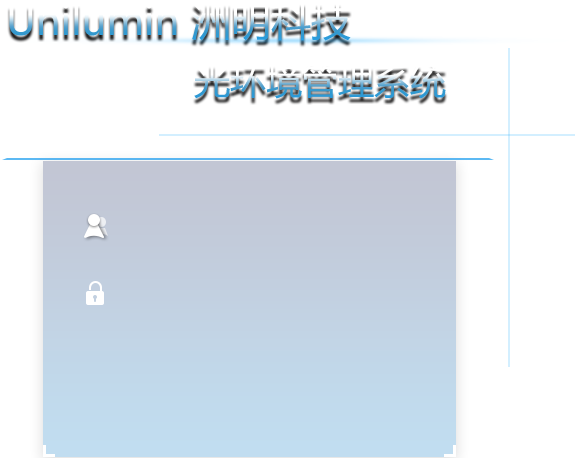
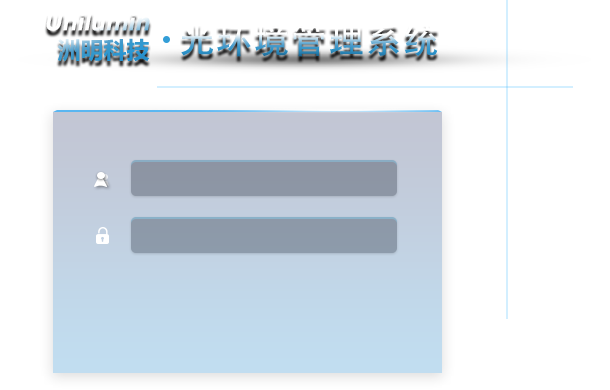
commit LE project

diff --git a/projects/LE/src/views/dashboard/dash-aside.vue b/projects/LE/src/views/dashboard/dash-aside.vue
@@ -4,40 +4,30 @@
       <input type="text" placeholder="请输入内容">
       <button></button>
     </div>
+    <ul class="header-title">
+      <li class="name">灯杆名称</li>
+      <li class="num">编号</li>
+      <li class="status">状态</li>
+    </ul>
     <el-menu
       default-active="2"
       class="el-menu-dashboard"
       @open="handleOpen"
       @close="handleClose"
+      :uniqueOpened="true"
       text-color="#fff">
-      <el-submenu index="1">
+      <el-submenu
+        v-for="(item, index) in list"
+        :key="index"
+        :index="'' + (index + 1)">
         <template slot="title">
-          <span>福永总部路灯杆组</span>
+          <span>{{ item.address }}</span>
         </template>
         <el-menu-item-group>
-          <el-menu-item index="1-1">擎天灯柱</el-menu-item>
-          <el-menu-item index="1-2">竖琴灯柱</el-menu-item>
-          <el-menu-item index="1-3">斜塔灯柱</el-menu-item>
-        </el-menu-item-group>
-      </el-submenu>
-      <el-submenu index="2">
-        <template slot="title">
-          <span>分组一</span>
-        </template>
-        <el-menu-item-group>
-          <el-menu-item index="2-1">选项1</el-menu-item>
-          <el-menu-item index="2-2">选项2</el-menu-item>
-          <el-menu-item index="2-3">选项3</el-menu-item>
-        </el-menu-item-group>
-      </el-submenu>
-      <el-submenu index="3">
-        <template slot="title">
-          <span>分组二</span>
-        </template>
-        <el-menu-item-group>
-          <el-menu-item index="3-1">选项1</el-menu-item>
-          <el-menu-item index="3-2">选项2</el-menu-item>
-          <el-menu-item index="3-3">选项3</el-menu-item>
+          <el-menu-item
+            v-for="(nodeItem, nodeIndex) in item.nodeList"
+            :key="nodeIndex"
+            :index="(index + 1) + '-' + (nodeIndex + 1)">{{ nodeItem.address }}</el-menu-item>
         </el-menu-item-group>
       </el-submenu>
     </el-menu>
@@ -76,36 +66,70 @@
 
 <style rel="stylesheet/scss" lang="scss">
   $bg: #022e4b;
-  $bg-submenu: linear-gradient(right, #1b72b5, #2e9feb);
-  $bg-active: linear-gradient(right, #9b3898, #3d83c7);
+  $menu-left: #2e9feb;
+  $menu-right: #1b72b5;
+  $active-left: #3d83c7;
+  $active-right: #9b3898;
 
   /* reset element-ui css */
   .el-menu-dashboard {
-    height: 89%;
+    height: 84%;
     border-right: none;
     background-color: $bg;
     overflow-y: auto;
     .el-submenu {
       margin-bottom: 3px;
-      background: $bg-submenu;
-      .el-menu-item {
-        border-left: 5px solid $bg;
+      background: -webkit-linear-gradient(right, $menu-right, $menu-left);
+      background: -moz-linear-gradient(right, $menu-right, $menu-left);
+      background: -o-linear-gradient(right, $menu-right, $menu-left);
+      background: linear-gradient(right, $menu-right, $menu-left);
+      .el-menu {
         background-color: $bg;
+      }
+      .el-menu-item {
+        height: 36px;
+        line-height: 36px;
+        margin-bottom: 3px;
+        background-color: #025485;
+        &:before{
+          content: '';
+          position: absolute;
+          z-index: 3;
+          left: 0;
+          width:0;
+          height:0;
+          border-right: 6px solid transparent;
+          border-bottom: 6px solid transparent;
+          border-left: 6px solid $bg;
+          border-top: 6px solid $bg;
+        }
       }
       .el-menu-item-group {
         background-color: $bg;
       }
-      .el-submenu__title:hover {
-        background: $bg-submenu;
+      .el-submenu__title {
+        height: 36px;
+        line-height: 36px;
+        &:hover {
+          background: -webkit-linear-gradient(right, $menu-right, $menu-left);
+          background: -moz-linear-gradient(right, $menu-right, $menu-left);
+          background: -o-linear-gradient(right, $menu-right, $menu-left);
+          background: linear-gradient(right, $menu-right, $menu-left);
+        }
       }
       .el-submenu__title i {
         color: #044972;
       }
     }
     .el-menu-item.is-active {
-      border-left: 5px solid #00b7ee;
       color: #fff;
-      background: $bg-active;
+      background: -webkit-linear-gradient(right, $active-right, $active-left);
+      background: -moz-linear-gradient(right, $active-right, $active-left);
+      background: -o-linear-gradient(right, $active-right, $active-left);
+      background: linear-gradient(right, $active-right, $active-left);
+      &:before{
+        border: none;
+      }
     }
   }
 </style>
@@ -116,8 +140,8 @@
     top: 10px;
     bottom: 10px;
     right: 0;
-    width: 19%;
-    padding: 17px 10px 17px 15px;
+    width: 20%;
+    padding: 1.6% 0.6% 1.6% 1.1%;
     background-image: url("../../assets/bg_silder.png");
     background-size: 100% 100%;
     overflow-y: hidden;
@@ -141,6 +165,54 @@
         background-image: url("../../assets/search.png");
         background-size: 100% 100%;
         cursor: pointer;
+      }
+    }
+    .header-title {
+      display: flex;
+      list-style: none;
+      width: 100%;
+      height: 36px;
+      line-height: 36px;
+      margin: 0 0 3px 0;
+      padding: 0;
+      color: #fff;
+      li {
+        margin-right: 3px;
+        text-align: center;
+        background-color: #00699c;
+        &:last-child {
+          margin-right: 0;
+        }
+        &:before {
+          content: '';
+          position: absolute;
+          z-index: 3;
+          left: 0;
+          width:0;
+          height:0;
+          border-right: 6px solid transparent;
+          border-bottom: 6px solid transparent;
+          border-left: 6px solid #022e4b;
+          border-top: 6px solid #022e4b;
+        }
+      }
+      .name{
+        width: 50%;
+        &:before {
+          left: 15px;
+        }
+      }
+      .num {
+        width: 30%;
+        &:before {
+          left: calc(53% - 6px);
+        }
+      }
+      .status {
+        width: 20%;
+        &:before {
+          left: calc(81% - 6px);
+        }
       }
     }
   }

diff --git a/projects/LE/src/views/login/index.vue b/projects/LE/src/views/login/index.vue
@@ -103,16 +103,20 @@ $light_gray:#eee;
     position: relative;
     top: 42%;
     left: 21%;
-    width: 50%;
-    height: 12%;
-    border: 1px solid rgba(255, 255, 255, 0.1);
-    background: rgba(0, 0, 0, 0.1);
-    border-radius: 5px;
+    width: 45%;
+    height: 36px;
+    margin-bottom: 20px;
     color: #454545;
   }
   .el-button {
-    width: 100%;
-    height: 100%;
+    margin-left:1.5%;
+    margin-top: 4px;
+    width: 84%;
+    height: 120%;
+  }
+  .el-form-item__error{
+    top: 33px;
+    left: 15px;
   }
 }
 
@@ -129,12 +133,26 @@ $light_gray:#eee;
   background-size: 100% 100%;
   .login-form {
     position: absolute;
-    top: 20%;
-    right: 15%;
-    width: 30%;
-    height: 49%;
+    top: 28%;
+    right: 14%;
+    width: 610px;
+    height: 390px;
     background-image: url('../../assets/login/login_form.png');
     background-size: 100% 100%;
+    @media screen and (max-width: 1600px) {
+      top: 17%;
+      right: 12%;
+    }
+    &:after{
+      content:'';
+      position: absolute;
+      top: 100%;
+      left: 6.6%;
+      width: 76.8%;
+      height: 150px;
+      background-image: url('../../assets/login/login_form_reflect.png');
+      background-size: 100% auto;
+    }
   }
   .tips {
     font-size: 14px;
@@ -154,6 +172,7 @@ $light_gray:#eee;
     font-size: 12px;
     color: #fff;
     text-align: center;
+    letter-spacing: 1.5px;
   }
 }
 </style>

diff --git a/projects/LE/config/dev.env.js b/projects/LE/config/dev.env.js
@@ -4,5 +4,5 @@ const prodEnv = require('./prod.env')
 
 module.exports = merge(prodEnv, {
   NODE_ENV: '"development"',
-  BASE_API: '"http://47.106.209.104/led-api/api"',
+  BASE_API: '"http://114.115.181.29/led-api/api"',
 })

diff --git a/projects/LE/config/prod.env.js b/projects/LE/config/prod.env.js
@@ -1,5 +1,5 @@
 'use strict'
 module.exports = {
   NODE_ENV: '"production"',
-  BASE_API: '"http://47.106.209.104/led-api/api"',
+  BASE_API: '"http://114.115.181.29/led-api/api"',
 }
